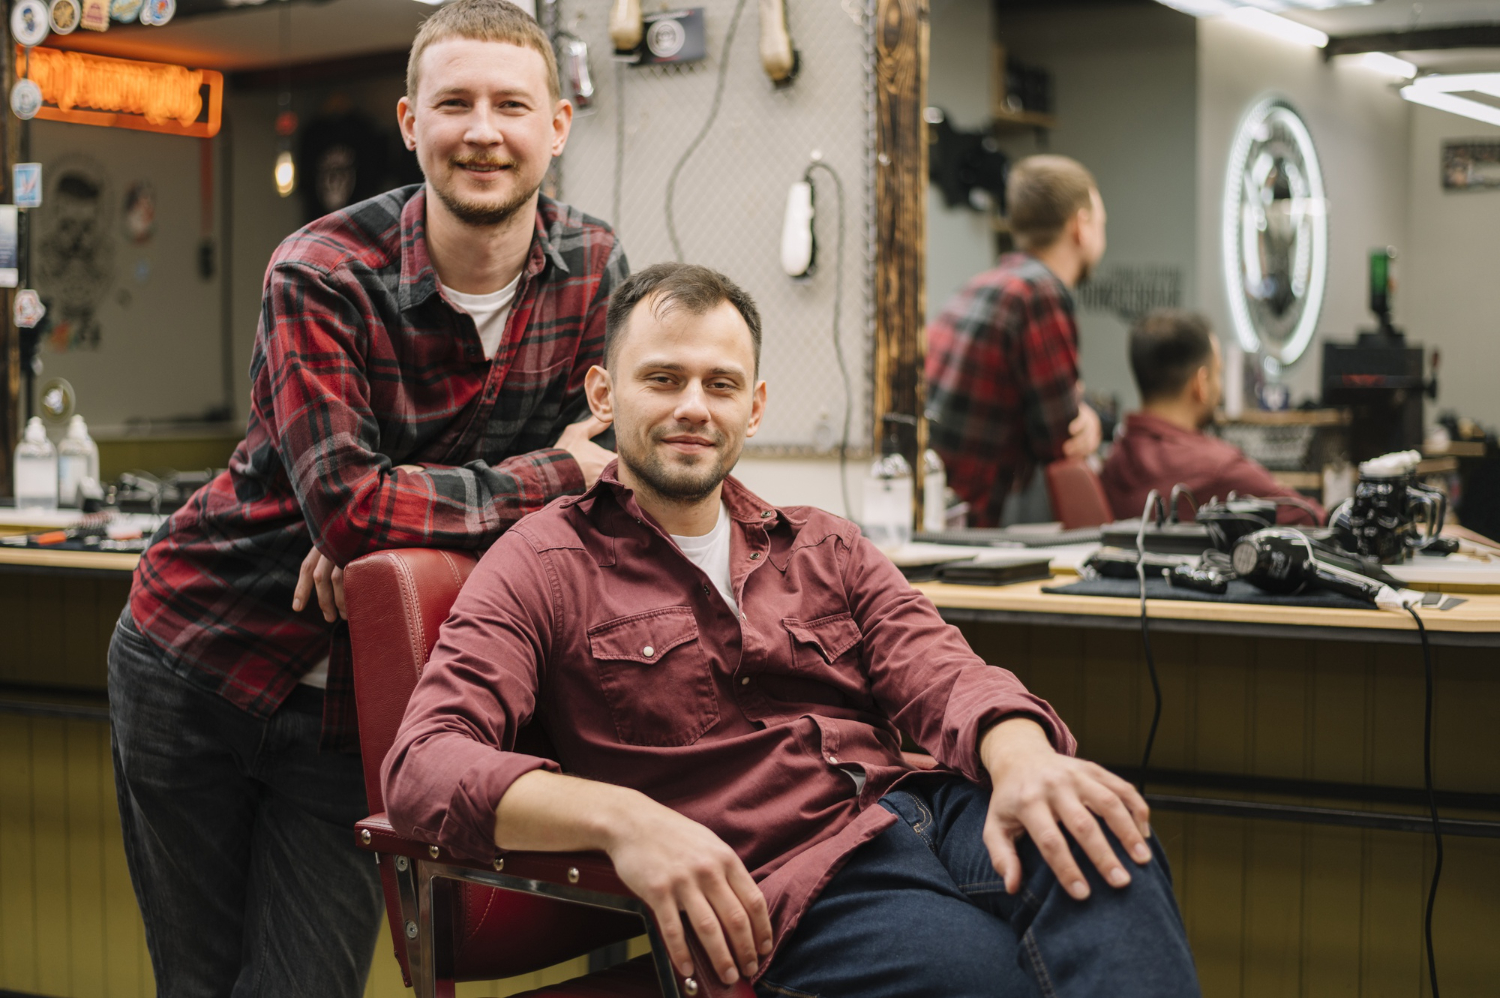
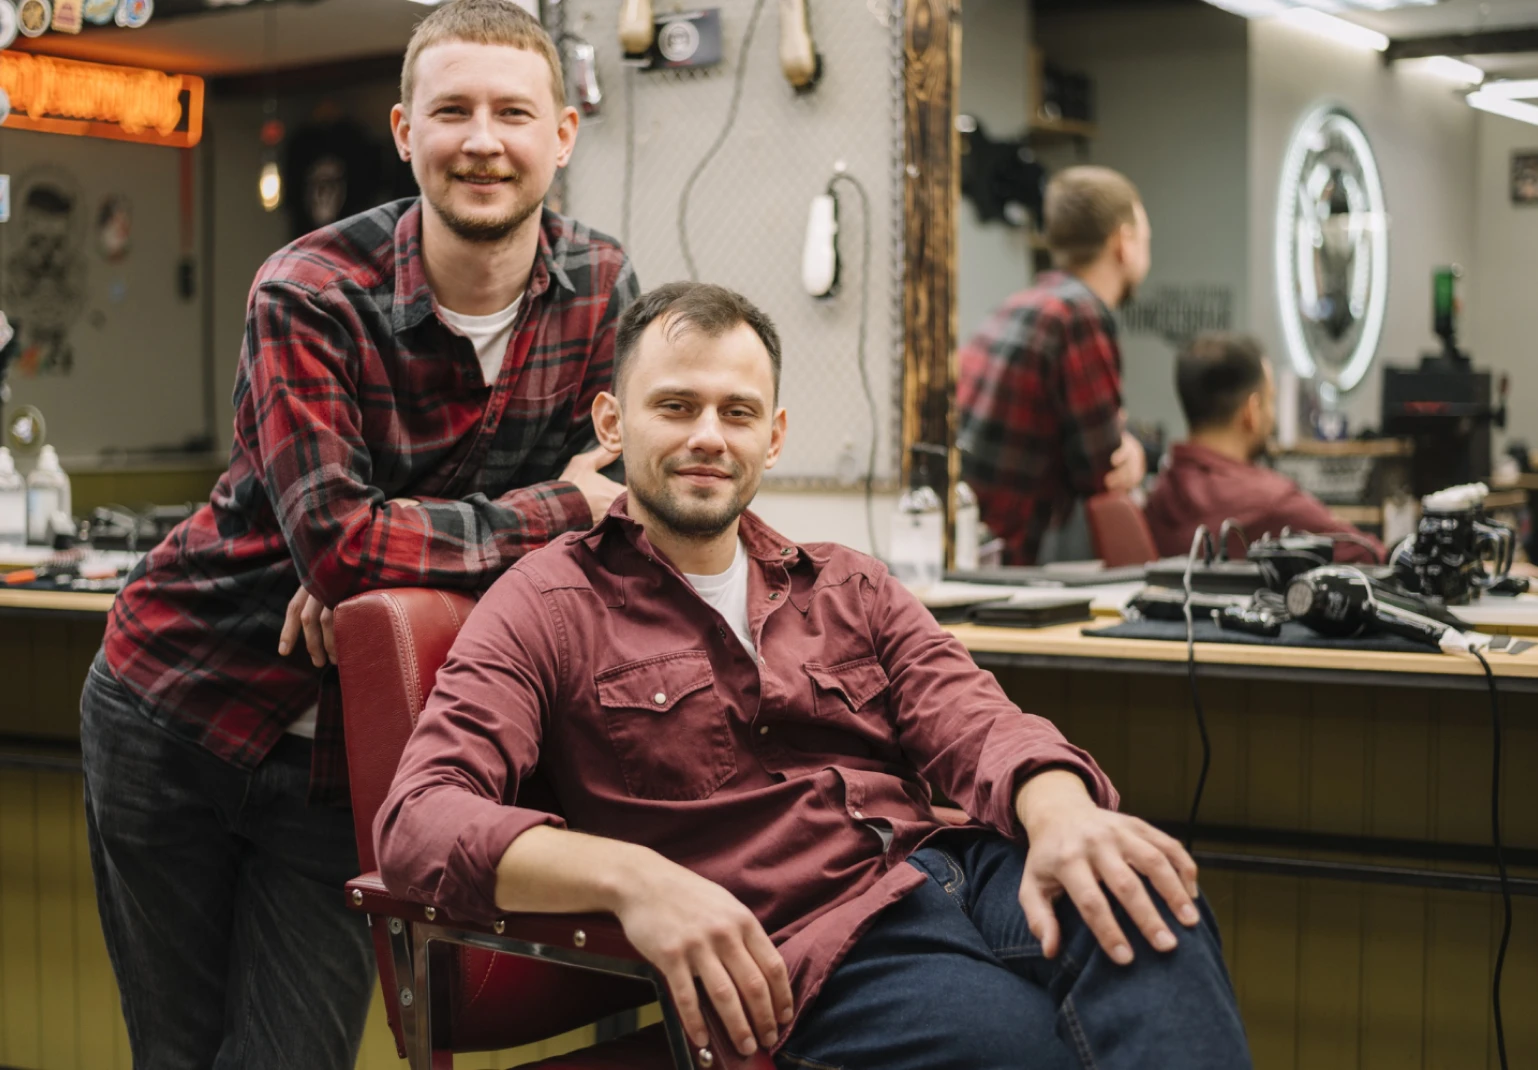
images update adult page

diff --git a/src/components/PageComponents/Adult/WhyAdultsChoose.jsx b/src/components/PageComponents/Adult/WhyAdultsChoose.jsx
@@ -1,8 +1,8 @@
 import React from "react";
-import whyAdultsImage1 from "../../../assets/images/adult/whyAdultsChoose/why_adults_c1.webp";
-import whyAdultsImage2 from "../../../assets/images/adult/whyAdultsChoose/why_adults_c2.webp";
-import whyAdultsImage3 from "../../../assets/images/adult/whyAdultsChoose/why_adults_c3.webp";
-import whyAdultsImage4 from "../../../assets/images/adult/whyAdultsChoose/why_adults_c4.webp";
+import whyAdultsImage1 from "../../../assets/images/adult/whyAdultsChoose/why_teens_c2.webp";
+import whyAdultsImage2 from "../../../assets/images/adult/whyAdultsChoose/why_teens_c1.webp";
+import whyAdultsImage3 from "../../../assets/images/adult/whyAdultsChoose/why_teens_c3.webp";
+import whyAdultsImage4 from "../../../assets/images/adult/whyAdultsChoose/why_teens_c4.webp";
 
 const reasons = [
   {
@@ -29,7 +29,7 @@ const reasons = [
 
 function WhyAdultsChoose() {
   return (
-    <section className="bg-white py-20">
+    <section className="py-20 bg-white">
       <div className="mx-auto max-w-[1280px] px-4 md:px-8">
         {/* Section Heading */}
         <h2 className="font-['Cairo'] font-bold text-[#181818] text-[36px] md:text-[48px] leading-[55px] capitalize mb-12">
@@ -37,7 +37,7 @@ function WhyAdultsChoose() {
         </h2>
 
         {/* Cards Grid */}
-        <div className="grid grid-cols-1 md:grid-cols-2 lg:grid-cols-4 gap-4">
+        <div className="grid grid-cols-1 gap-4 md:grid-cols-2 lg:grid-cols-4">
           {reasons.map((reason) => (
             <div
               key={reason.id}
@@ -47,14 +47,14 @@ function WhyAdultsChoose() {
               <img
                 src={reason.image}
                 alt={reason.title}
-                className="absolute inset-0 w-full h-full object-cover"
+                className="object-cover absolute inset-0 w-full h-full"
               />
 
               {/* Gradient Overlay */}
               <div className="absolute inset-0 bg-gradient-to-b from-transparent from-[57%] to-[rgba(0,0,0,0.35)] to-[67%]" />
 
               {/* Text Content */}
-              <div className="absolute bottom-4 left-4 right-4">
+              <div className="absolute right-4 bottom-4 left-4">
                 <h3 className="font-['Urbanist'] font-bold text-[20px] leading-[28px] text-white">
                   {reason.title}
                 </h3>
